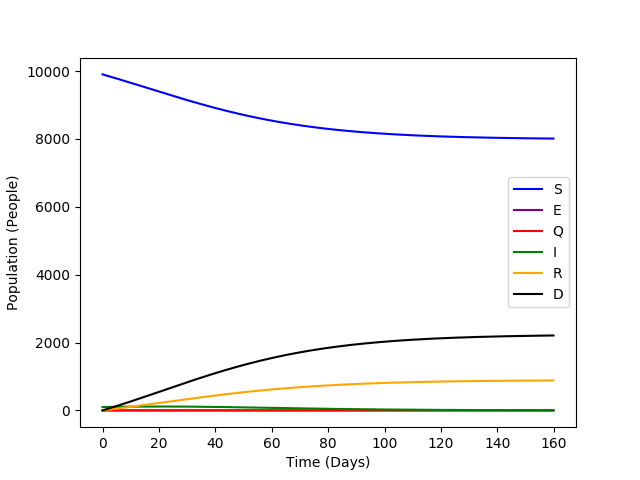
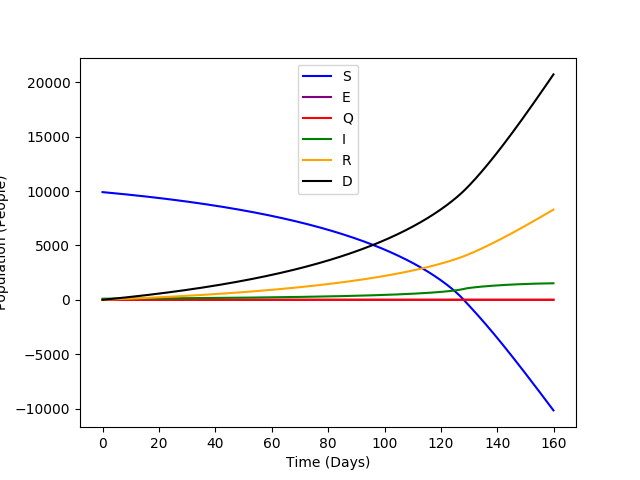
changing variables

diff --git a/hrenard_program3.py b/hrenard_program3.py
@@ -37,13 +37,17 @@ def runsim(
 	D[0] = 0
 
 	for i in range(1, len(time_values)):
-		# Flows.
-		frac_susceptible =  S[i - 1] / (total_pop - Q[i - 1])
-		SI_contact_rate = frac_susceptible * I[i - 1] * contact_factor 		# contacts / day
+
+		frac_susceptible =  S[i - 1] / (total_pop - Q[i - 1] - D[i - 1])		
+		
+		SI_contact_rate = I[i - 1] * frac_susceptible * contact_factor 		# contacts / day
+		
 		exposed_rate = SI_contact_rate * transmissibility			# people / day
+		
 		quarantine_rate = E[i - 1] * quarantine_factor				# people / day
 		quarantine_recovery_rate = Q[i - 1] * recovery_factor  			# recoveries / day
 		quarantine_death_rate = Q[i - 1] * death_factor				# deaths / day
+		
 		infectious_rate = SI_contact_rate * transmissibility 			# infections / day
 		infection_recovery_rate = I[i - 1] * recovery_factor  			# recoveries / day
 		infection_death_rate = I[i - 1] * death_factor				# deaths / day
@@ -77,7 +81,7 @@ def runsim(
 		plt.show()
 		plt.savefig("plot1.png")
 
-	return (I[len(I) - 1] + E[len(E) - 1] + Q[len(Q) - 1] + R[len(R) - 1] + D[len(D) - 1]) / total_pop * 100
+	return (total_pop - S[len(S) - 1]) / total_pop * 100
 
 
 def main():
